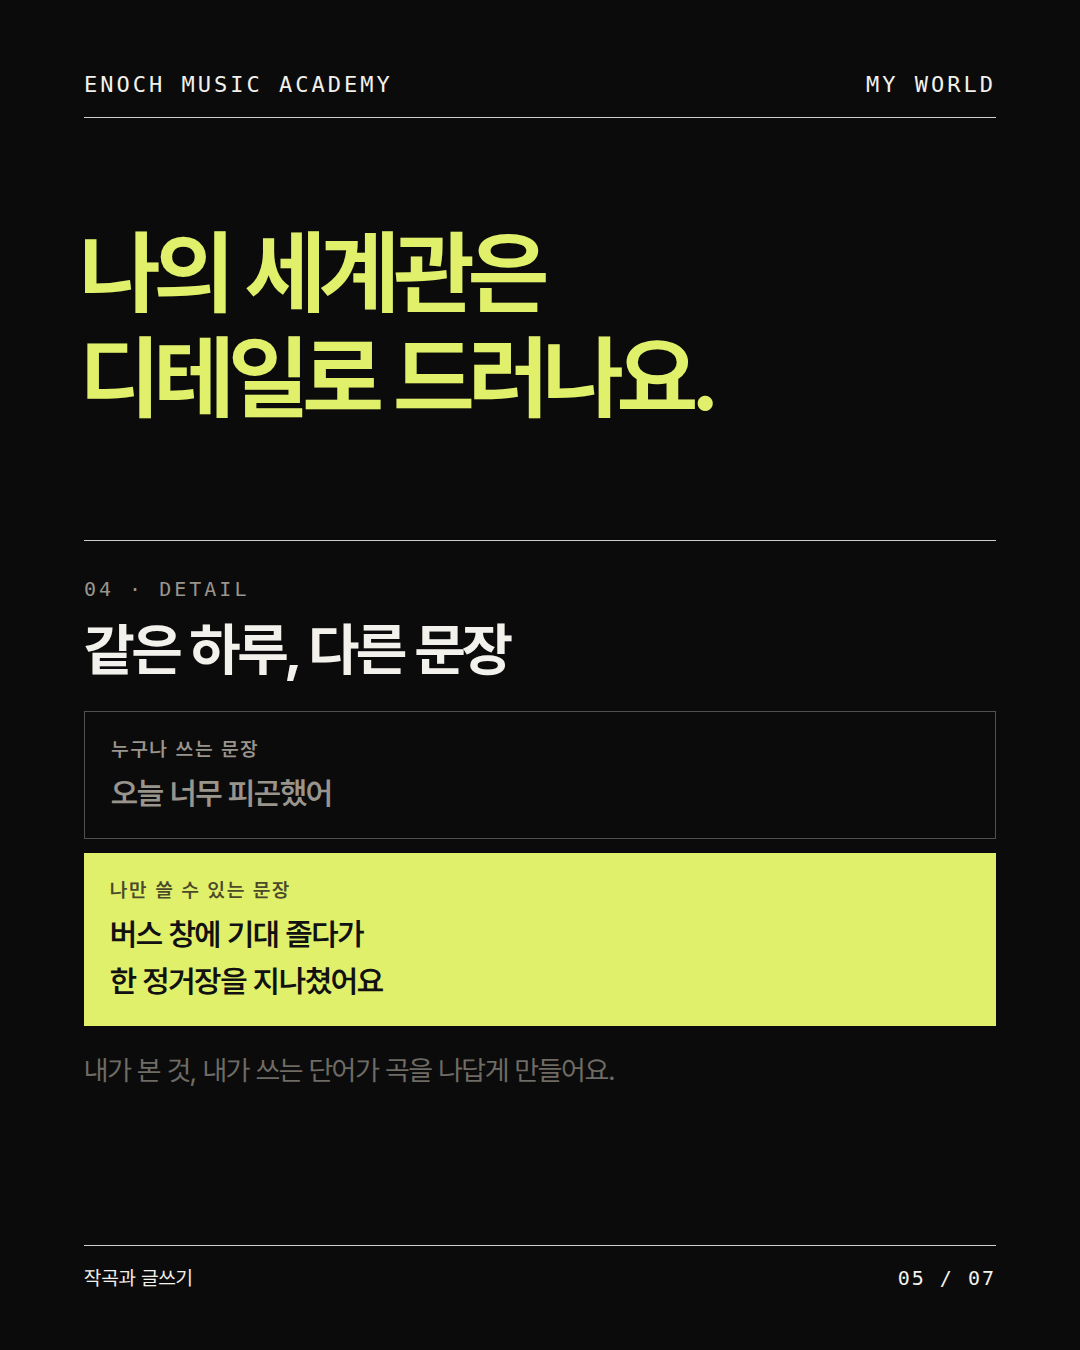
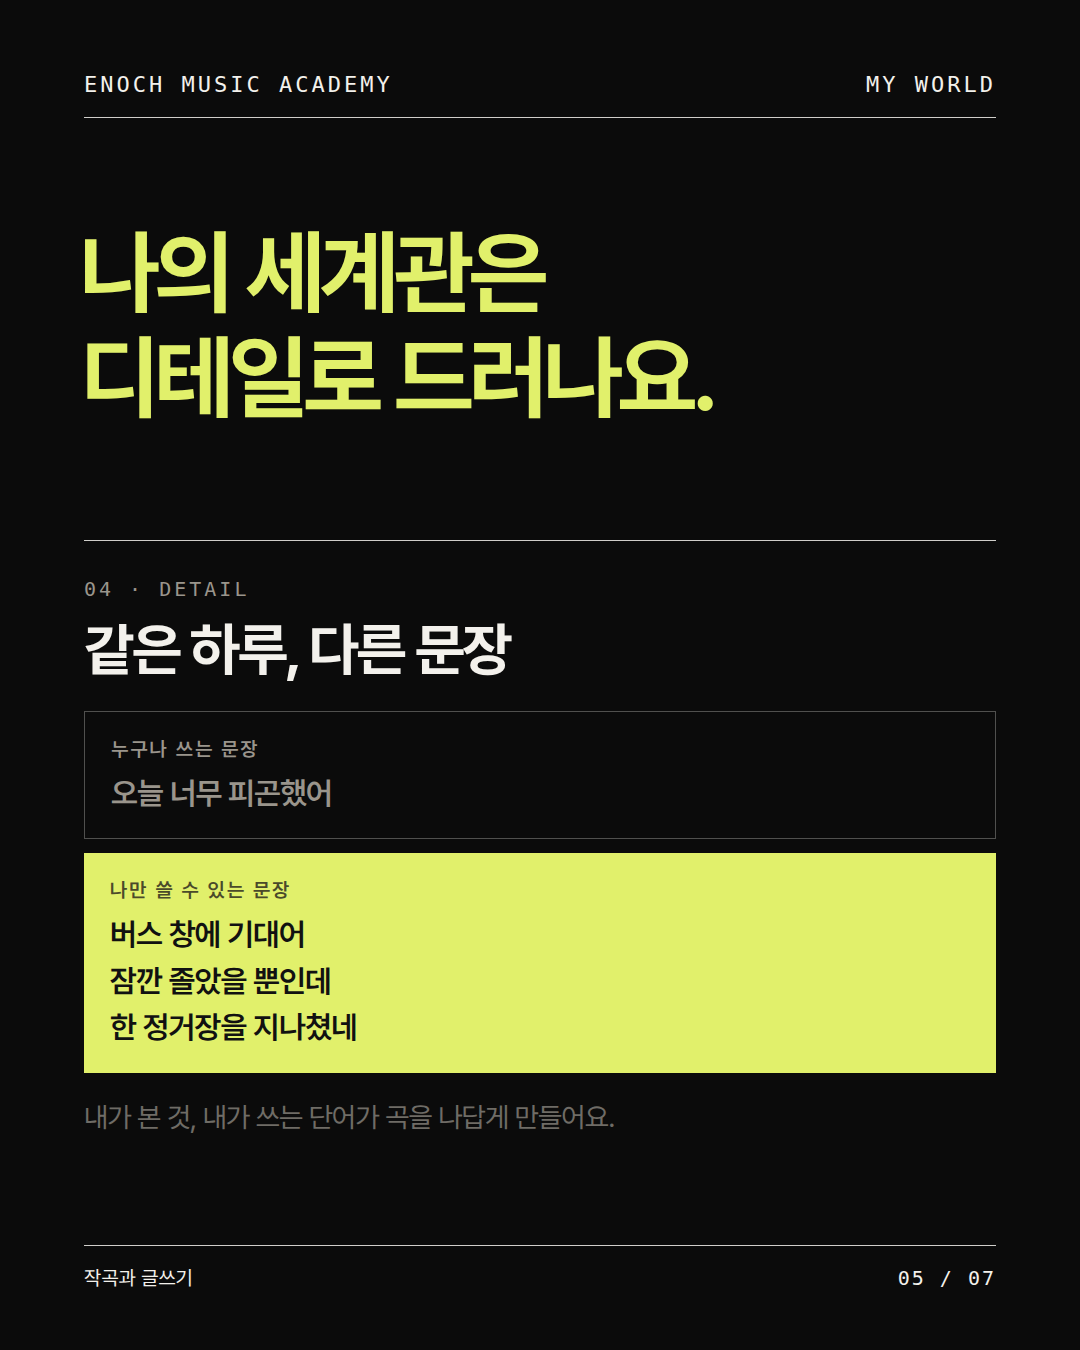
작곡과 글쓰기: 5장 예시를 가사형 세 줄로
Claude-Session: https://claude.ai/code/session_01HGbZvgMeYrbU7mY8bwfjyb

Changed region(s): [[0.0611, 0.6844, 0.9472, 0.84]]

diff --git a/output/작곡_글쓰기의힘/deck_note.html b/output/작곡_글쓰기의힘/deck_note.html
@@ -72,7 +72,7 @@ mark{background:linear-gradient(transparent 58%,var(--lime) 58%,var(--lime) 92%,
   <div class="k" style="position:absolute;left:96px;top:560px">같은 하루, 다른 문장</div>
   <div style="position:absolute;left:96px;right:96px;top:620px">
     <div class="del" style="font-size:44px;font-weight:500;letter-spacing:-1.5px">오늘 너무 피곤했어</div>
-    <div style="margin-top:34px;font-size:52px;font-weight:700;letter-spacing:-2px;line-height:1.35"><mark>버스 창에 기대 졸다가</mark><br><mark>한 정거장을 지나쳤어요</mark></div>
+    <div style="margin-top:34px;font-size:52px;font-weight:700;letter-spacing:-2px;line-height:1.35"><mark>버스 창에 기대어</mark><br><mark>잠깐 졸았을 뿐인데</mark><br><mark>한 정거장을 지나쳤네</mark></div>
   </div>
   <div class="note" style="top:960px;height:128px"><p>내가 본 것, 내가 쓰는 단어가 곡을 나답게 만들어요.</p></div>
   <div class="ft"><span>작곡과 글쓰기</span><span>05 / 07</span></div>

diff --git a/output/작곡_글쓰기의힘/deck.html b/output/작곡_글쓰기의힘/deck.html
@@ -111,7 +111,7 @@
     <div class="ct">같은 하루, 다른 문장</div>
     <div class="cmp">
       <div class="q q1"><small>누구나 쓰는 문장</small>오늘 너무 피곤했어</div>
-      <div class="q q2"><small>나만 쓸 수 있는 문장</small>버스 창에 기대 졸다가<br>한 정거장을 지나쳤어요</div>
+      <div class="q q2"><small>나만 쓸 수 있는 문장</small>버스 창에 기대어<br>잠깐 졸았을 뿐인데<br>한 정거장을 지나쳤네</div>
     </div>
     <div class="body" style="margin-top:22px;font-size:28px;color:var(--g)">내가 본 것, 내가 쓰는 단어가 곡을 나답게 만들어요.</div>
   </div>

diff --git a/output/작곡_글쓰기의힘/deck_editorial.html b/output/작곡_글쓰기의힘/deck_editorial.html
@@ -138,7 +138,7 @@
     <div class="ct">같은 하루, 다른 문장</div>
     <div class="cmp">
       <div class="q q1"><small>누구나 쓰는 문장</small>오늘 너무 피곤했어</div>
-      <div class="q q2"><small>나만 쓸 수 있는 문장</small>버스 창에 기대 졸다가<br>한 정거장을 지나쳤어요</div>
+      <div class="q q2"><small>나만 쓸 수 있는 문장</small>버스 창에 기대어<br>잠깐 졸았을 뿐인데<br>한 정거장을 지나쳤네</div>
     </div>
     <div class="body" style="margin-top:22px;font-size:28px;color:var(--g)">내가 본 것, 내가 쓰는 단어가 곡을 나답게 만들어요.</div>
   </div>

diff --git a/output/작곡_글쓰기의힘/caption.md b/output/작곡_글쓰기의힘/caption.md
@@ -5,7 +5,7 @@
 
 같은 코드 진행으로도 수많은 곡이 만들어지지만, 곡을 다르게 만드는 건 그 안에 담긴 이야기예요. ENOCH 작곡 수업은 모든 과정이 1:1이라, 한 사람의 이야기에 맞춰 수업해요.
 
-매일 읽으면 같은 감정을 다르게 말하는 방법이 늘어나고, 매일 쓰면 내 말투가 생겨요. "오늘 너무 피곤했어" 대신 "버스 창에 기대 졸다가 한 정거장을 지나쳤어요"처럼, 내가 본 것과 내가 쓰는 단어가 곡을 나답게 만들어요.
+매일 읽으면 같은 감정을 다르게 말하는 방법이 늘어나고, 매일 쓰면 내 말투가 생겨요. "오늘 너무 피곤했어" 대신 "버스 창에 기대어 / 잠깐 졸았을 뿐인데 / 한 정거장을 지나쳤네"처럼, 내가 본 것과 내가 쓰는 단어가 곡을 나답게 만들어요.
 
 이번 주에는 노트 한 권을 정해 보세요. 마음에 남은 한 줄을 옮겨 적고, 내 말로 바꿔 쓰고, 소리 내어 읽어 보세요.
 
